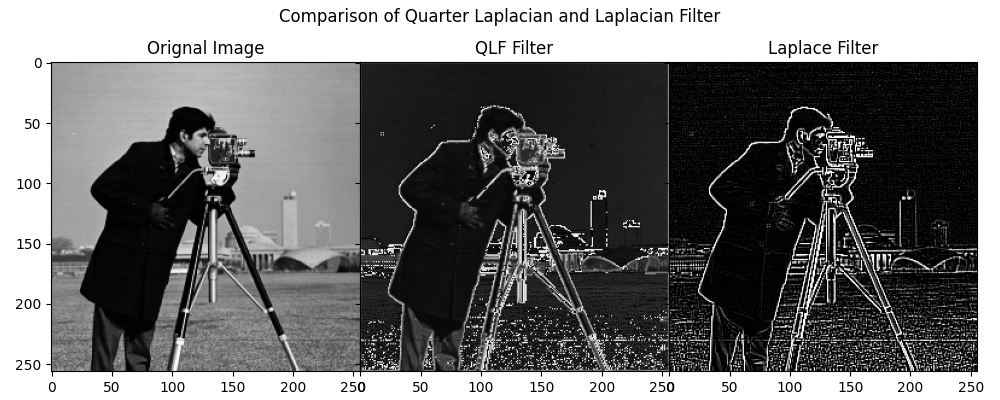
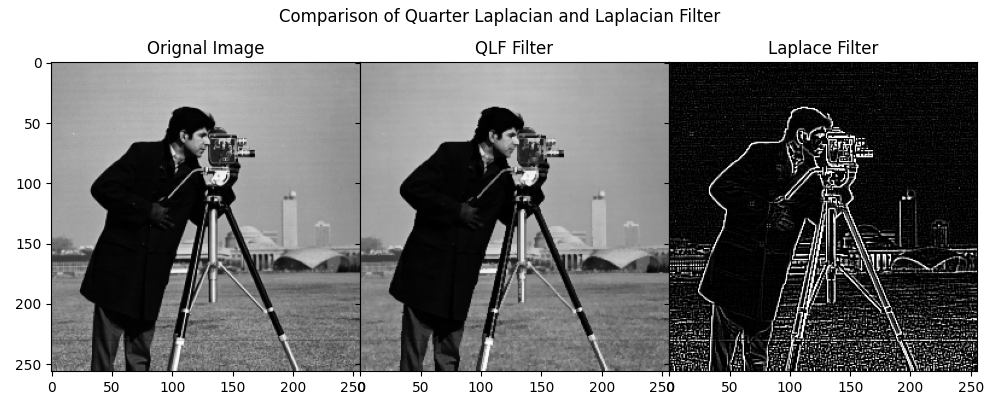
resolved bug in QLF filter

Changed region(s): [[0.341, 0.15, 0.682, 0.93]]

diff --git a/imageprocessing/filters.py b/imageprocessing/filters.py
@@ -1,116 +1,51 @@
 import numpy as np
 import cv2 as cv
 
-from constants import MIN_PIXEL_VALUE, MAX_PIXEL_VALUE
-
 
 class QuarterLaplacian(object):
-    def __init__(self, iterations: int = 1, add_to_input: bool = True) -> None:
+    def __init__(self) -> None:
+        pass
+
+    def _compute_convolution_kernels(self, U: np.ndarray) -> np.ndarray:
         """
-        Parameters:
-        iterations: Number of diffusion iterations.
-        add_to_input: Whether to add the computed QLF response to the input (diffusion).
+        The function computes the four convolution kernels k1, k2, k3, k4 using the fast implementation approach
+        mentioned in the paper. The function returns a stacked array of the four kernels.
+
+        Only one convolution is used to generate four kernels because of the overlapped support region.
+
+        parameters:
+            U: The input image
+        returns:
+            qlf_response: stacked array of the four kernels
         """
-        self.iterations = iterations
-        self.add_to_input = add_to_input
+        extended_U = cv.copyMakeBorder(src=U, top=1, bottom=1, left=1, right=1, borderType=cv.BORDER_REPLICATE)
 
-    def _rotate_image_cv(self, img: np.ndarray, k: int) -> np.ndarray:
-        """
-        Rotate image by k * 90 degrees counter-clockwise using OpenCV. Where, k in range [0, 3].
-        """
-        if k % 4 == 0:
-            return img
-        elif k % 4 == 1:
-            return cv.rotate(img, cv.ROTATE_90_COUNTERCLOCKWISE)
-        elif k % 4 == 2:
-            return cv.rotate(img, cv.ROTATE_180)
-        elif k % 4 == 3:
-            return cv.rotate(img, cv.ROTATE_90_CLOCKWISE)
+        # chipping off extended-border by getting lower right part
+        convolved_U = cv.boxFilter(src=extended_U, ddepth=-1, ksize=(2, 2),
+                                   normalize=False, borderType=cv.BORDER_REPLICATE)[1:, 1:]
 
-    def _fast_k1_convolve(self, U: np.ndarray) -> np.ndarray:
-        """
-        Compute the fast convolution response corresponding to kernel k₁, which (according to the paper) can be
-        rewritten as:
+        k1 = (1/3 * convolved_U[:-1, :-1]) - (4/3 * U)
+        k2 = (1/3 * convolved_U[:-1, 1:]) - (4/3 * U)
+        k3 = (1/3 * convolved_U[1:, 1:]) - (4/3 * U)
+        k4 = (1/3 * convolved_U[1:, :-1]) - (4/3 * U)
 
-           k₁ = (1/3) * [1 1; 1 1] - (4/3) * δ(center)
+        stacked_kernels = np.stack([k1, k2, k3, k4], axis=0)
+        return stacked_kernels
 
-        This means that for a given pixel (i, j), the response is computed using the 2x2 region starting at (i, j):
+    def _compute_qlf_result(self, U: np.ndarray) -> np.ndarray:
+        stacked_kernels = self._compute_convolution_kernels(U)
+        abs_kernels = np.abs(stacked_kernels)
+        min_indices = np.argmin(abs_kernels, axis=0)
 
-           response(i,j) = (1/3) * (U(i,j) + U(i,j+1) + U(i+1,j) + U(i+1,j+1)) - (4/3) * U(i+1, j+1)
+        # compute dm(x,y) (best di using equation (v))
+        qlf_response = np.take_along_axis(stacked_kernels, min_indices[None, ...], axis=0).squeeze(0)
+        return qlf_response
 
-                (i, j)
-                |
-               \|/
-               [_  _  x]               [x  x  x]
-            1/3[_  _  x]      -     4/3[x  _  x]
-               [x  x  x]               [x  x  x]
+    def apply_filter(self, U: np.ndarray, iterations = 1) -> np.ndarray:
+        U_out = U.copy().astype(np.float32)
 
-        Because the support region is overlapped among neighboring pixels, we can compute the sum over every 2×2 block
-        for the whole image using a box filter.
+        for _ in range(iterations):
+            U_out += self._compute_qlf_result(U_out)
 
-
-        Parameters:
-          U (np.ndarray): 2D image (dtype float32).
-
-        Returns:
-          response (np.ndarray): Response image, same size as U.
-        """
-        Uh, Uw = U.shape
-        response = np.zeros_like(U)
-        box_sum = cv.boxFilter(src=U, ddepth=-1, ksize=(2, 2), normalize=False, borderType=cv.BORDER_REPLICATE)
-        valid_k1_h, valid_k1_w = Uh - 1, Uw - 1
-        response[:valid_k1_h, :valid_k1_w] = (1/3) * box_sum[:valid_k1_h, :valid_k1_w] - (4/3) * U[1:Uh, 1:Uw]
-        return response
-
-    def _compute_diffusion_result(self, U: np.ndarray) -> np.ndarray:
-        """
-        Applies one iteration of the fast Quarter Laplacian Filter (QLF)
-        using the overlapping support optimization.
-
-        The idea is to compute a fast response corresponding to kernel k₁ via a 2×2 box filter,
-        then obtain the other three directional responses by rotating the image, applying the
-        same operation, and un-rotating the response.
-
-        For each pixel, we select the response with the smallest absolute value.
-
-        Parameters:
-         U (np.ndarray): Grayscale image (dtype np.uint8 or float32).
-
-        Returns:
-         U_out (np.ndarray): Filtered image (same dtype as input, clipped to [0, 255]).
-        """
-        responses = []
-        for k in range(4):
-            # Rotate the image counter-clockwise by 90°  k times.
-            rotated_U = self._rotate_image_cv(U, k)
-            # Compute the fast response (equivalent to k₁ on the rotated image)
-            rotated_convolved_U = self._fast_k1_convolve(rotated_U)
-            # Rotate the response back to the original orientation.
-            # For np.rot90, rotating back is achieved by rotating in the opposite direction.
-            Ki_result = np.rot90(rotated_convolved_U, -k % 4)
-            responses.append(Ki_result)
-
-        # Stack responses: shape (H, W, 4)
-        responses_stack = np.stack(responses, axis=-1)
-        # Get absolute responses for minimum selection.
-        abs_responses = np.abs(responses_stack)
-        # For each pixel, get the index (0 to 3) of the minimal absolute response.
-        min_indices = np.argmin(abs_responses, axis=-1)
-        # Select the corresponding response for each pixel.
-        # np.take_along_axis requires expanding the indices to match the last axis.
-        qlf_response = np.take_along_axis(responses_stack, np.expand_dims(min_indices, axis=-1), axis=-1)
-        qlf_response = qlf_response.squeeze(axis=-1)
-
-        # perform diffusion operation: update image by adding QLF response.
-        if self.add_to_input:
-            U += qlf_response
-        else:
-            U = qlf_response
-
-        U_out = np.clip(U, MIN_PIXEL_VALUE, MAX_PIXEL_VALUE).astype(np.uint8)
-        return U_out
-
-    def apply_filter(self, U: np.ndarray) -> np.ndarray:
-        for _ in range(self.iterations):
-            U = self._compute_diffusion_result(U)
-        return U
+        result = 255 * (U_out - np.min(U_out)) / (np.max(U_out) - np.min(U_out))
+        return result.astype(np.uint8)

diff --git a/tests.py b/tests.py
@@ -1,0 +1,20 @@
+import unittest
+
+import numpy as np
+
+from imageprocessing.filters import QuarterLaplacian
+
+
+class TestQuarterLaplacian(unittest.TestCase):
+    def test_compute_qlf_result(self):
+        qlf = QuarterLaplacian()
+        expected = np.array(
+            [[0., -0.66666667, -0.66666667, 0.66666667, 0.],
+            [-2.66666667, 2.66666667, -2.66666667, -2.66666667, 2.66666667],
+            [-2.66666667, -2.66666667, 2.66666667, -2.66666667, 2.66666667],
+            [-2.66666667, -2.66666667, -2.66666667, 2.66666667, 2.66666667],
+            [0., 0.66666667, 0.66666667, -0.66666667, 0.]])
+
+        result = qlf._compute_qlf_result(U=np.arange(25).reshape(5, 5))
+        np.testing.assert_allclose(result, expected, rtol=1e-5, atol=1e-8)
+

diff --git a/imageprocessing/experiments.py b/imageprocessing/experiments.py
@@ -157,7 +157,7 @@ class LowLightEnhancement(object):
         else:
             raise NameError('No qlf filter was provided.')
 
-        laplace = cv.Laplacian(src=gamma_corrected, ddepth=cv.CV_32F, dst=np.zeros_like(gamma_corrected), ksize=3,
+        laplace = cv.Laplacian(src=gamma_corrected, ddepth=-1, dst=np.zeros_like(gamma_corrected), ksize=3,
                                borderType=cv.BORDER_REPLICATE)
         laplace = cv.convertScaleAbs(laplace)
 
